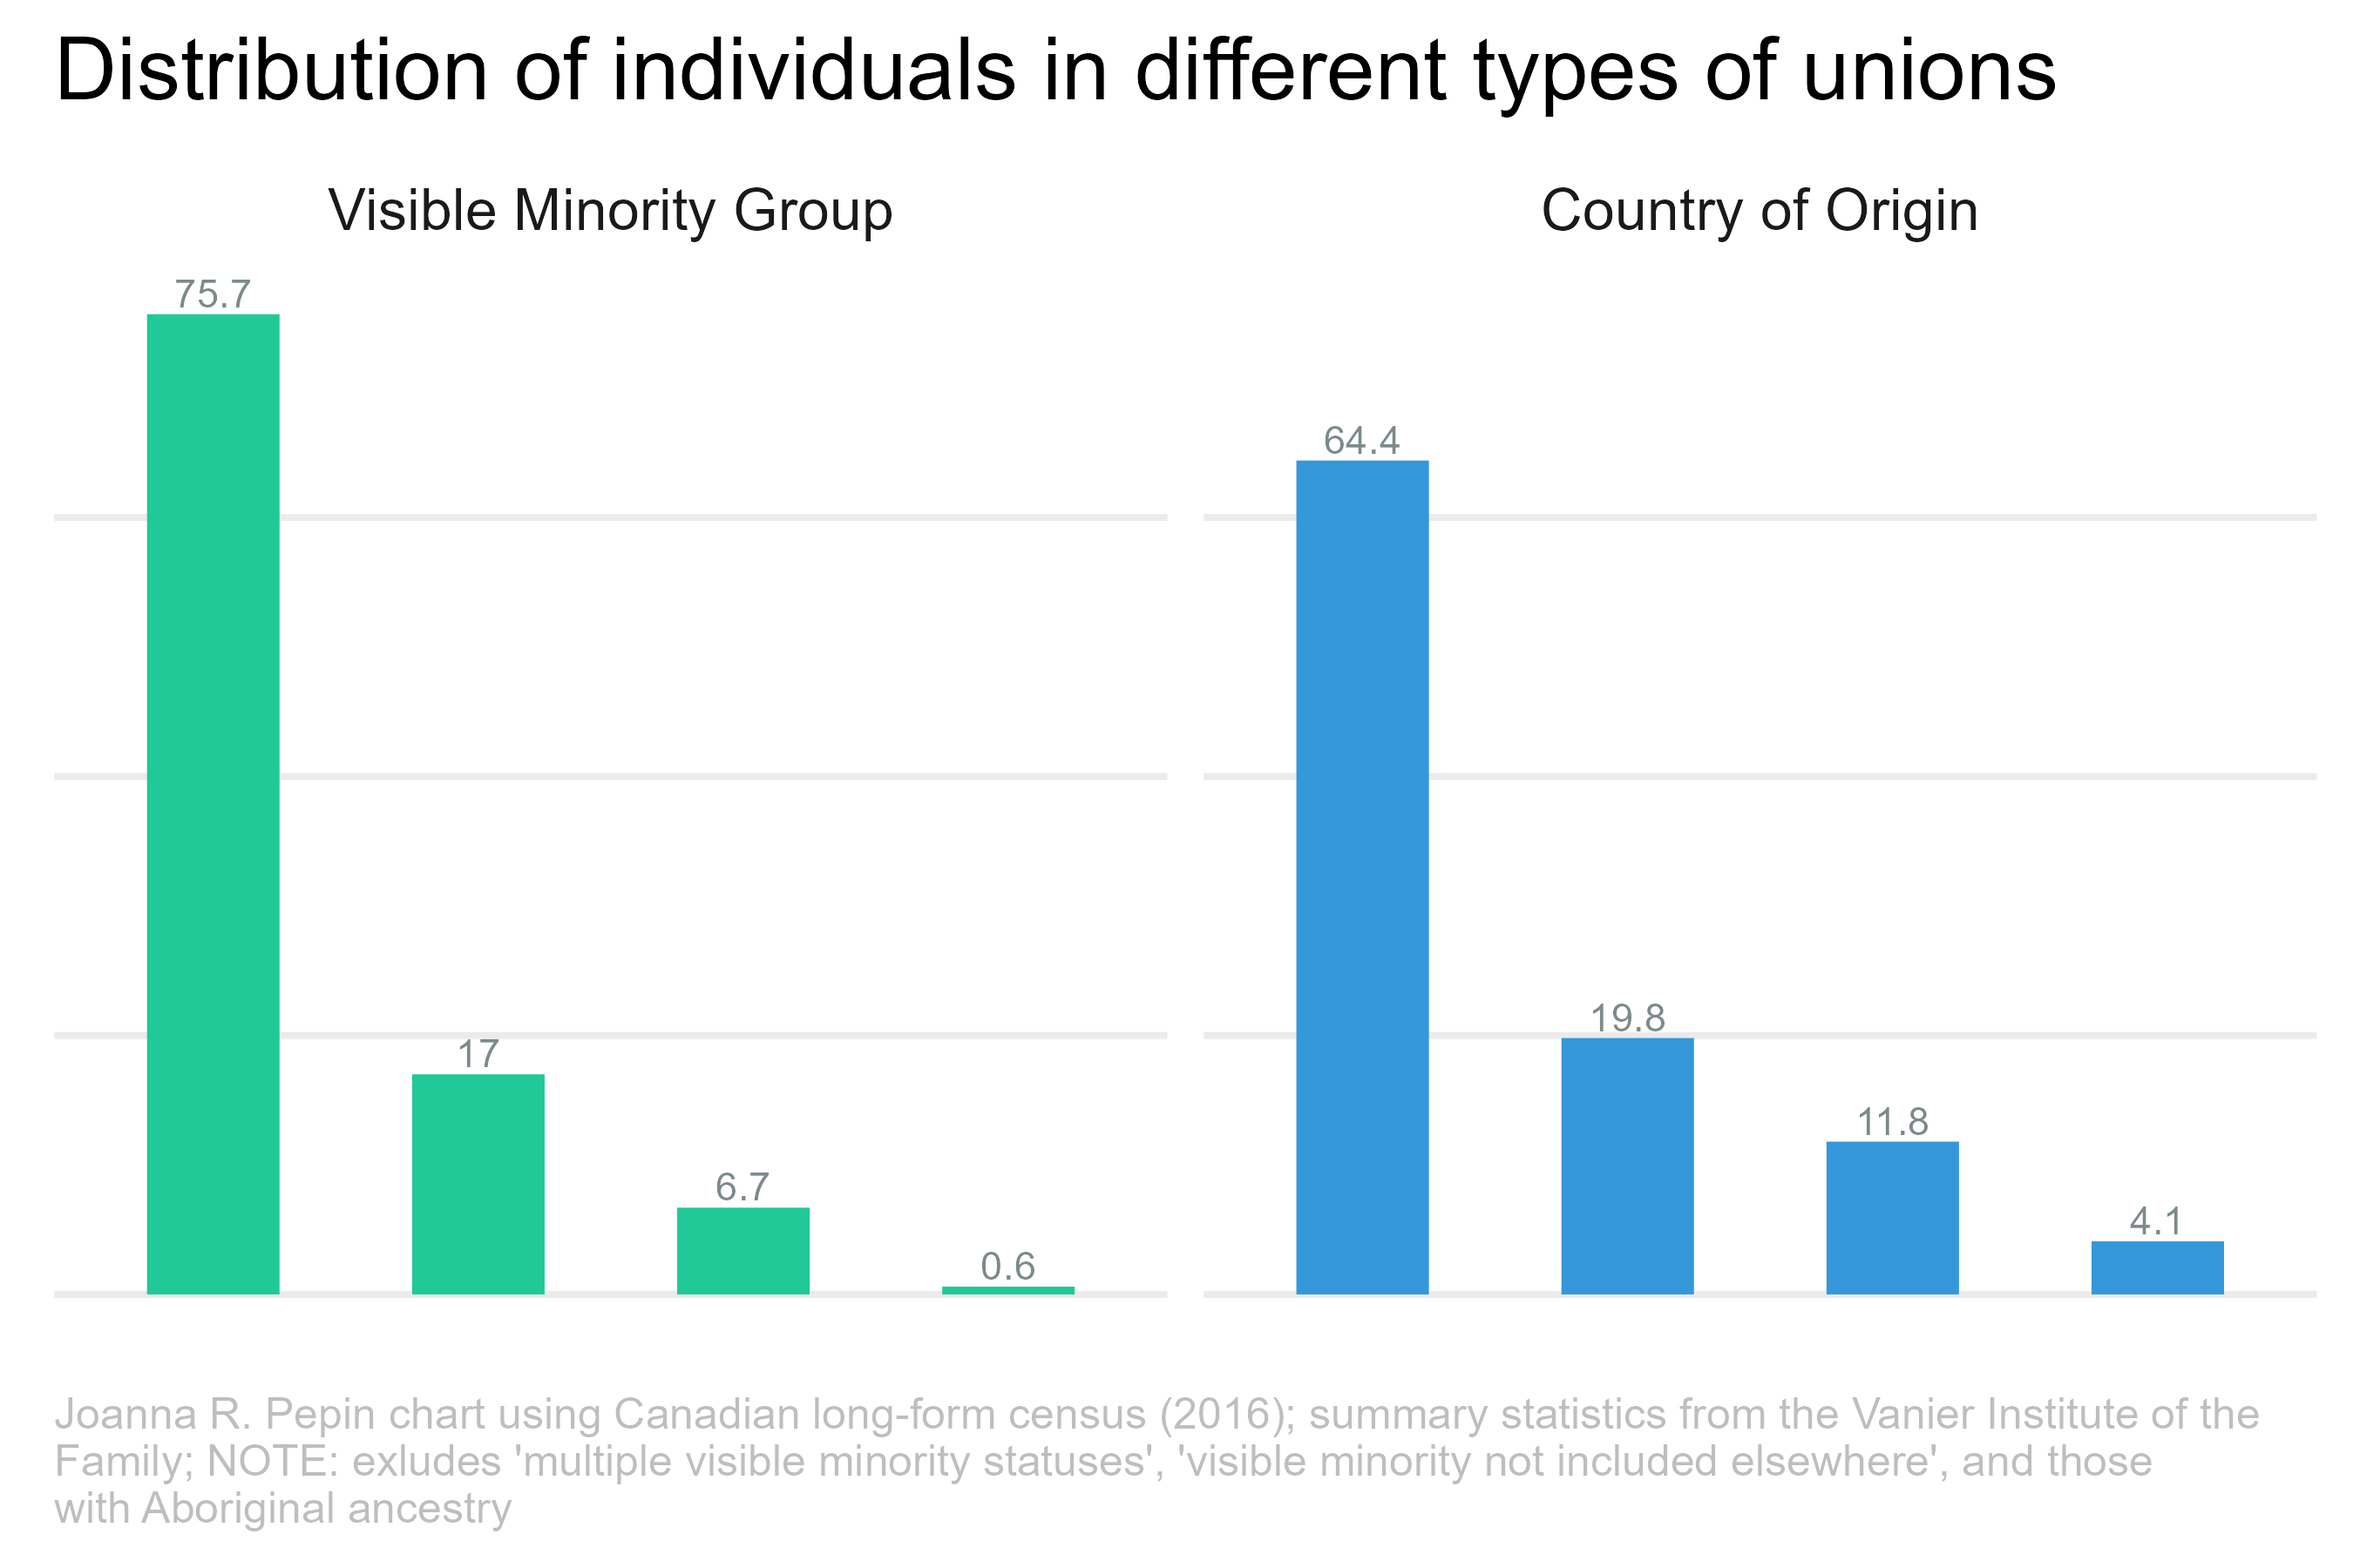
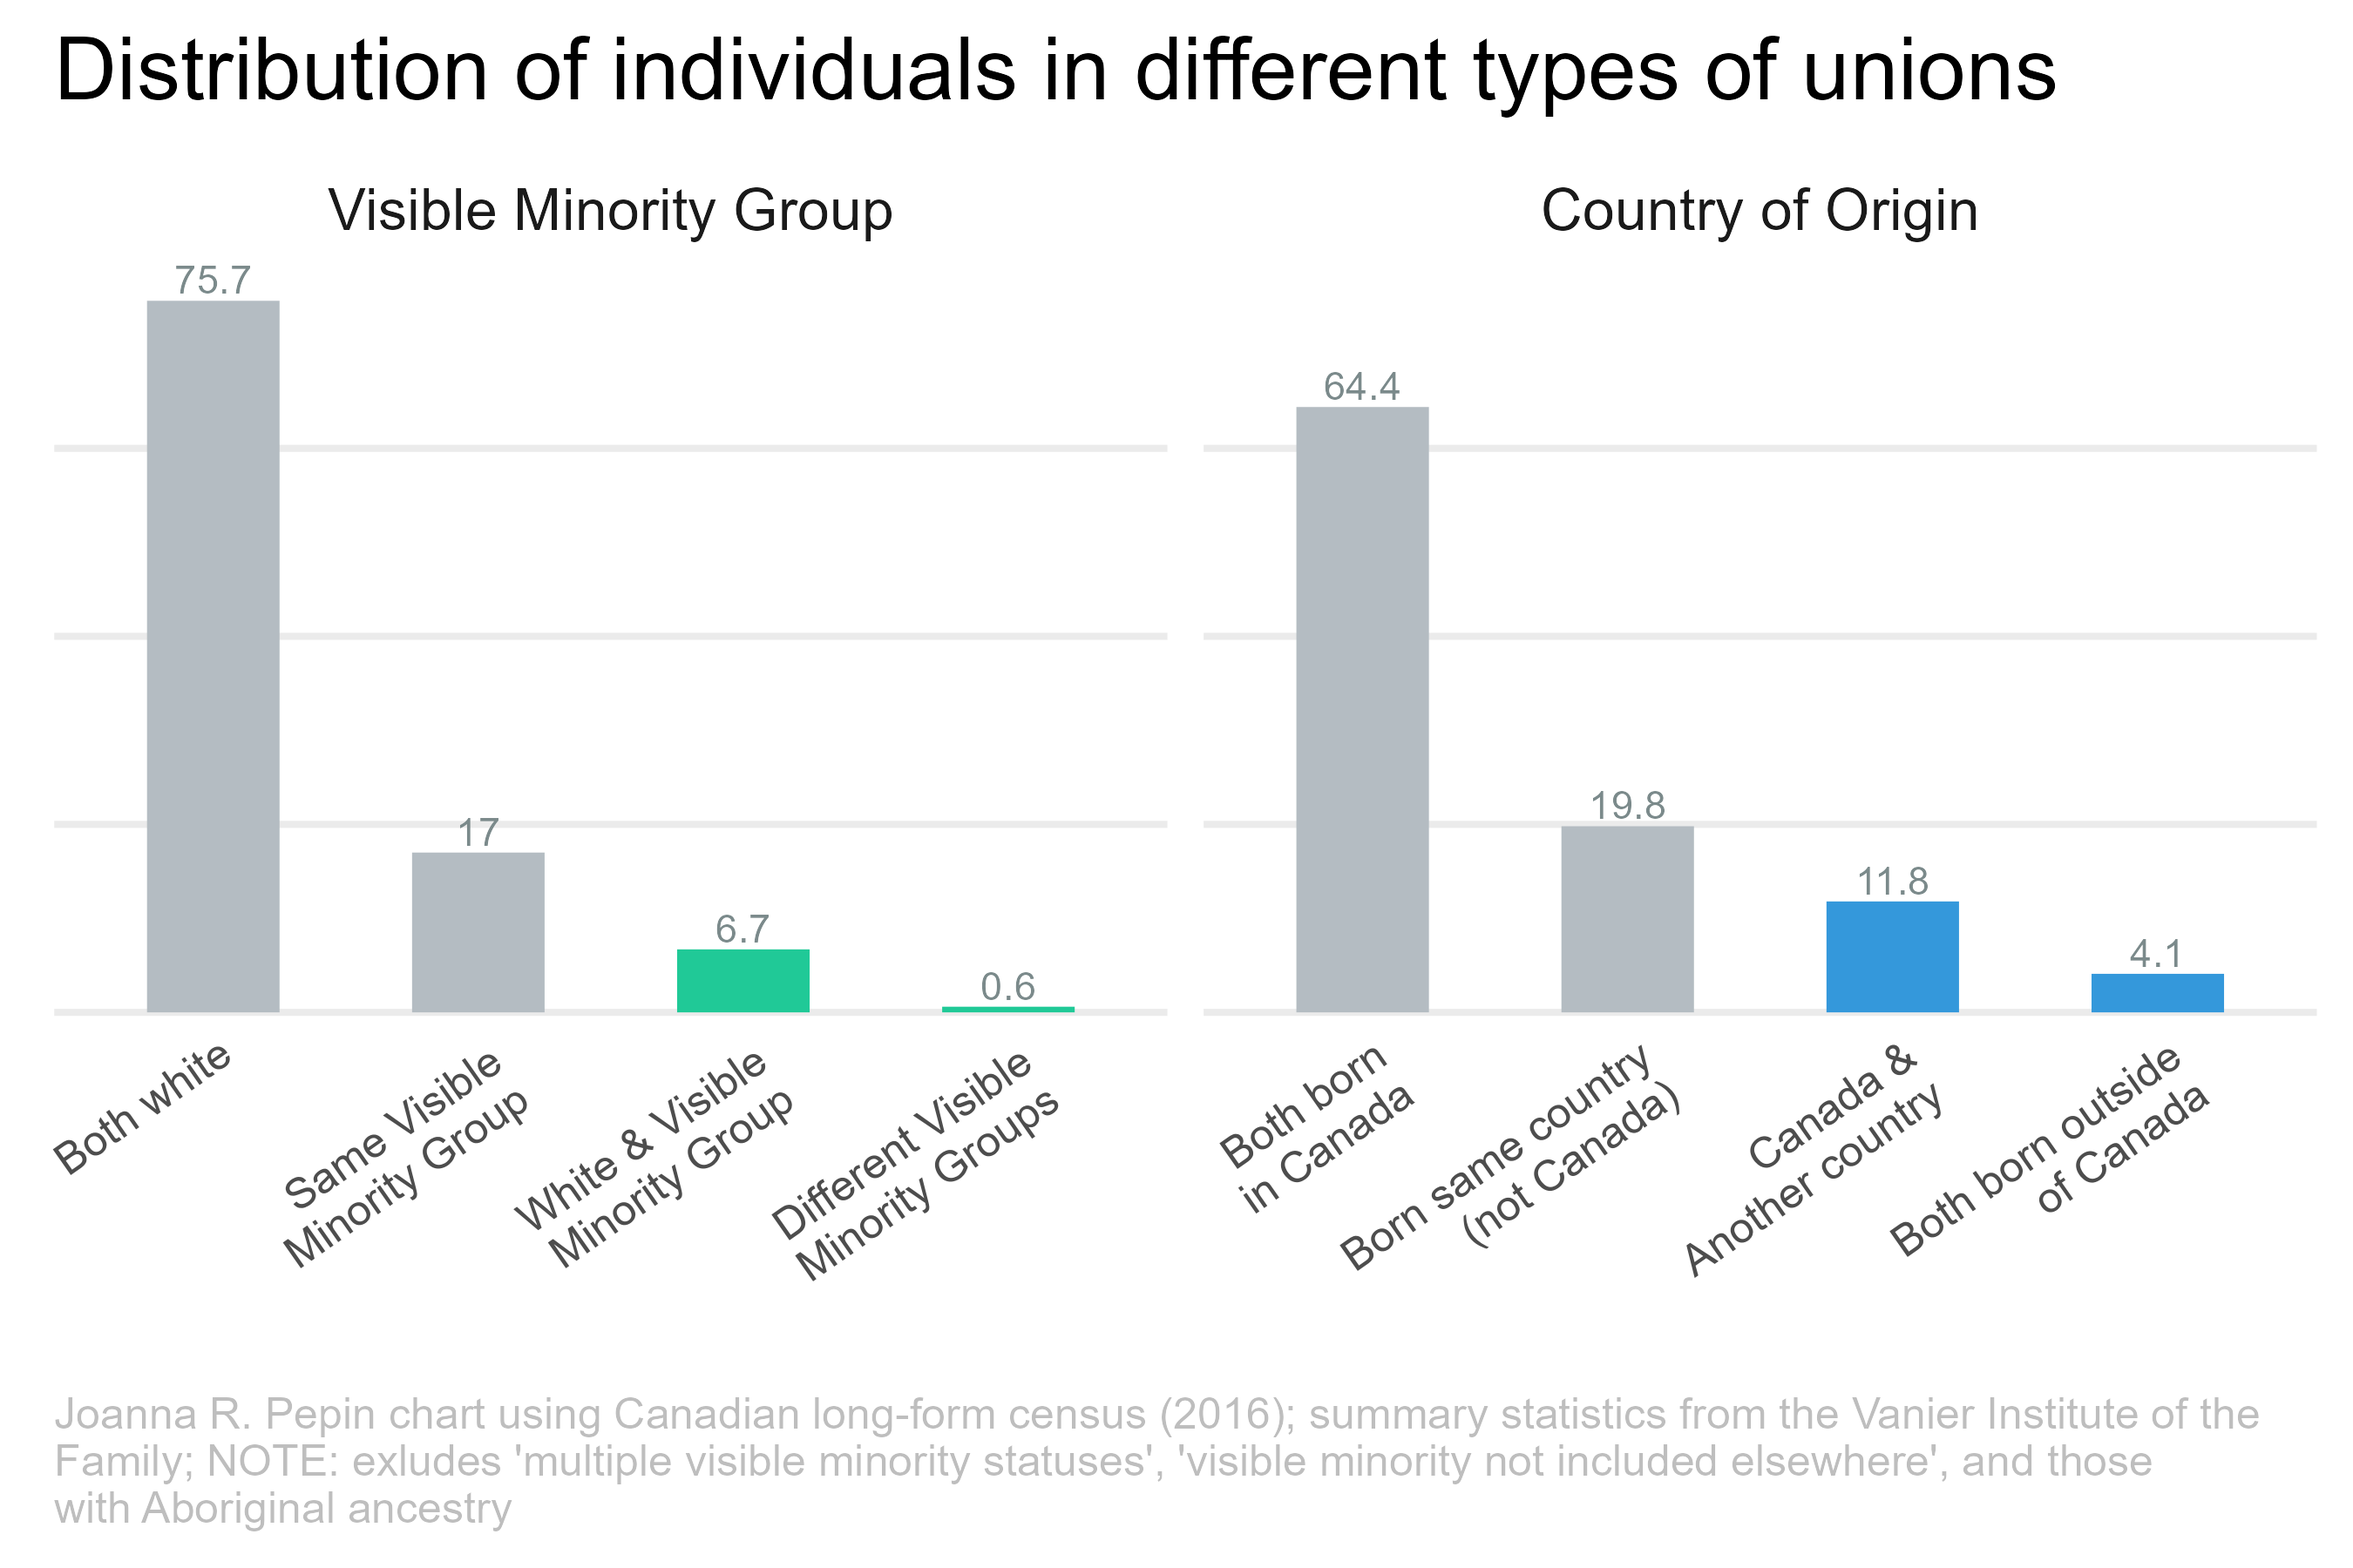
x-axis labels and colors

diff --git a/README.md b/README.md
@@ -23,23 +23,23 @@ These figures are my effort to learn about Canadian families, with an emphasis o
 **Roommate HH**: two or more people living together, among which none are part of a census family
 
 **1 person**: one-person household
-  
+
 ------------------------------------------------------------------------
-  
+
 ![% of Canadians who agree/disagree/dk if family life suffers when the woman has a full-time job](https://github.com/jrpepin/Now-You-CanadaKnow/blob/main/figs/famsuffer.png?raw=true) [download](https://github.com/jrpepin/Now-You-CanadaKnow/blob/main/figs/famsuffer.png) \| [code](https://github.com/jrpepin/Now-You-CanadaKnow/blob/main/R/familysuffers.R)
-  
+
 ------------------------------------------------------------------------
-  
+
 ![Canadian stay-at-home mothers](https://github.com/jrpepin/Now-You-CanadaKnow/blob/main/figs/sahmom.png?raw=true) [download](https://github.com/jrpepin/Now-You-CanadaKnow/blob/main/figs/sahmom.png) \| [code](https://github.com/jrpepin/Now-You-CanadaKnow/blob/main/R/sahmom.R)
 
 #### Definitions:
 
 [**Stay-at-home parent**](https://www150.statcan.gc.ca/n1/pub/11-630-x/11-630-x2016007-eng.htm#def1): a person in a couple family with at least one child under the age of 16 at home, who did not have a job or business, was not looking for work, was not attending school, and was not permanently unable to work during the survey reference week; parents on maternity or parental leave are not considered to be stay-at-home parents if they have a job to which they will return---they are considered employed and absent from work.
-  
+
 ------------------------------------------------------------------------
 
 ![Attitudes about mixed-race relationships](https://github.com/jrpepin/Now-You-CanadaKnow/blob/main/figs/marrace.png?raw=true) [download](https://github.com/jrpepin/Now-You-CanadaKnow/blob/main/figs/marrace.png) \| [code](https://github.com/jrpepin/Now-You-CanadaKnow/blob/main/R/marrace.R)
-  
+
 ------------------------------------------------------------------------
-![Distribution of individuals in different types of unions](https://github.com/jrpepin/Now-You-CanadaKnow/blob/main/figs/mixed.png?raw=true) 
-[download](https://github.com/jrpepin/Now-You-CanadaKnow/blob/main/figs/mixed.png) \| [code](https://github.com/jrpepin/Now-You-CanadaKnow/blob/main/R/mixed.R)
+
+![Distribution of individuals in different types of unions](https://github.com/jrpepin/Now-You-CanadaKnow/blob/main/figs/mixed.png?raw=true) [download](https://github.com/jrpepin/Now-You-CanadaKnow/blob/main/figs/mixed.png) \| [code](https://github.com/jrpepin/Now-You-CanadaKnow/blob/main/R/mixed.R)
